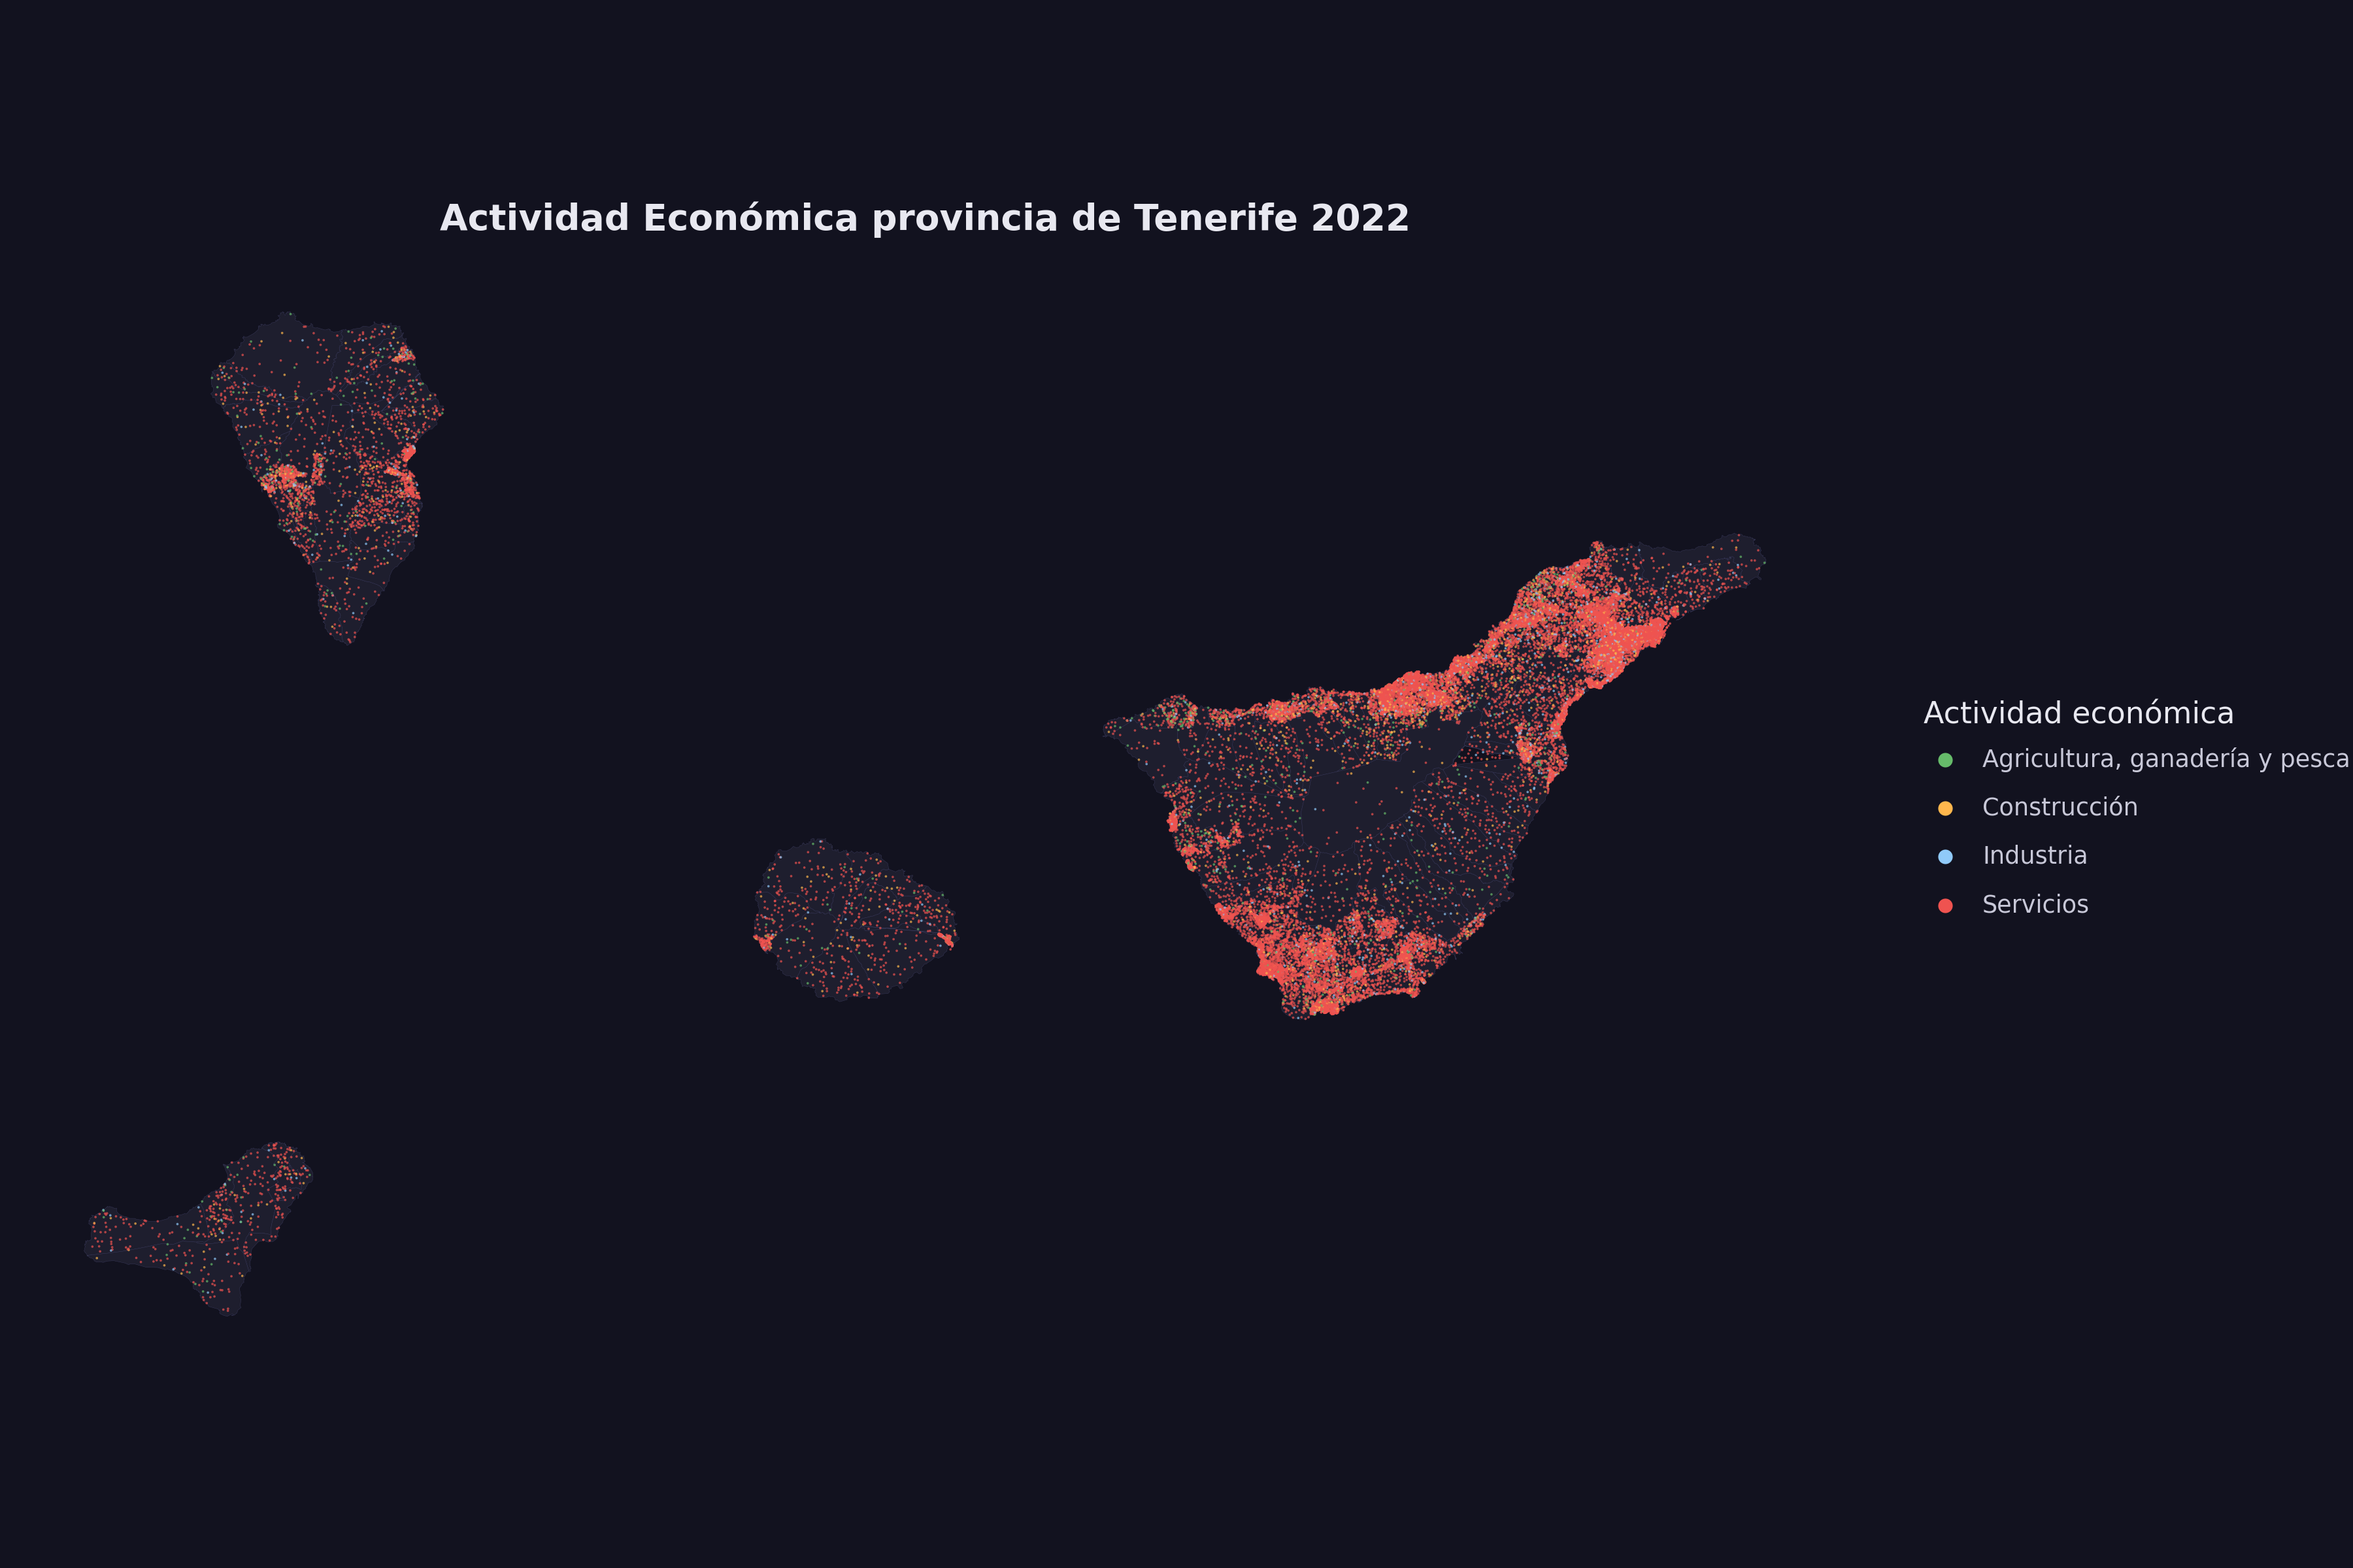
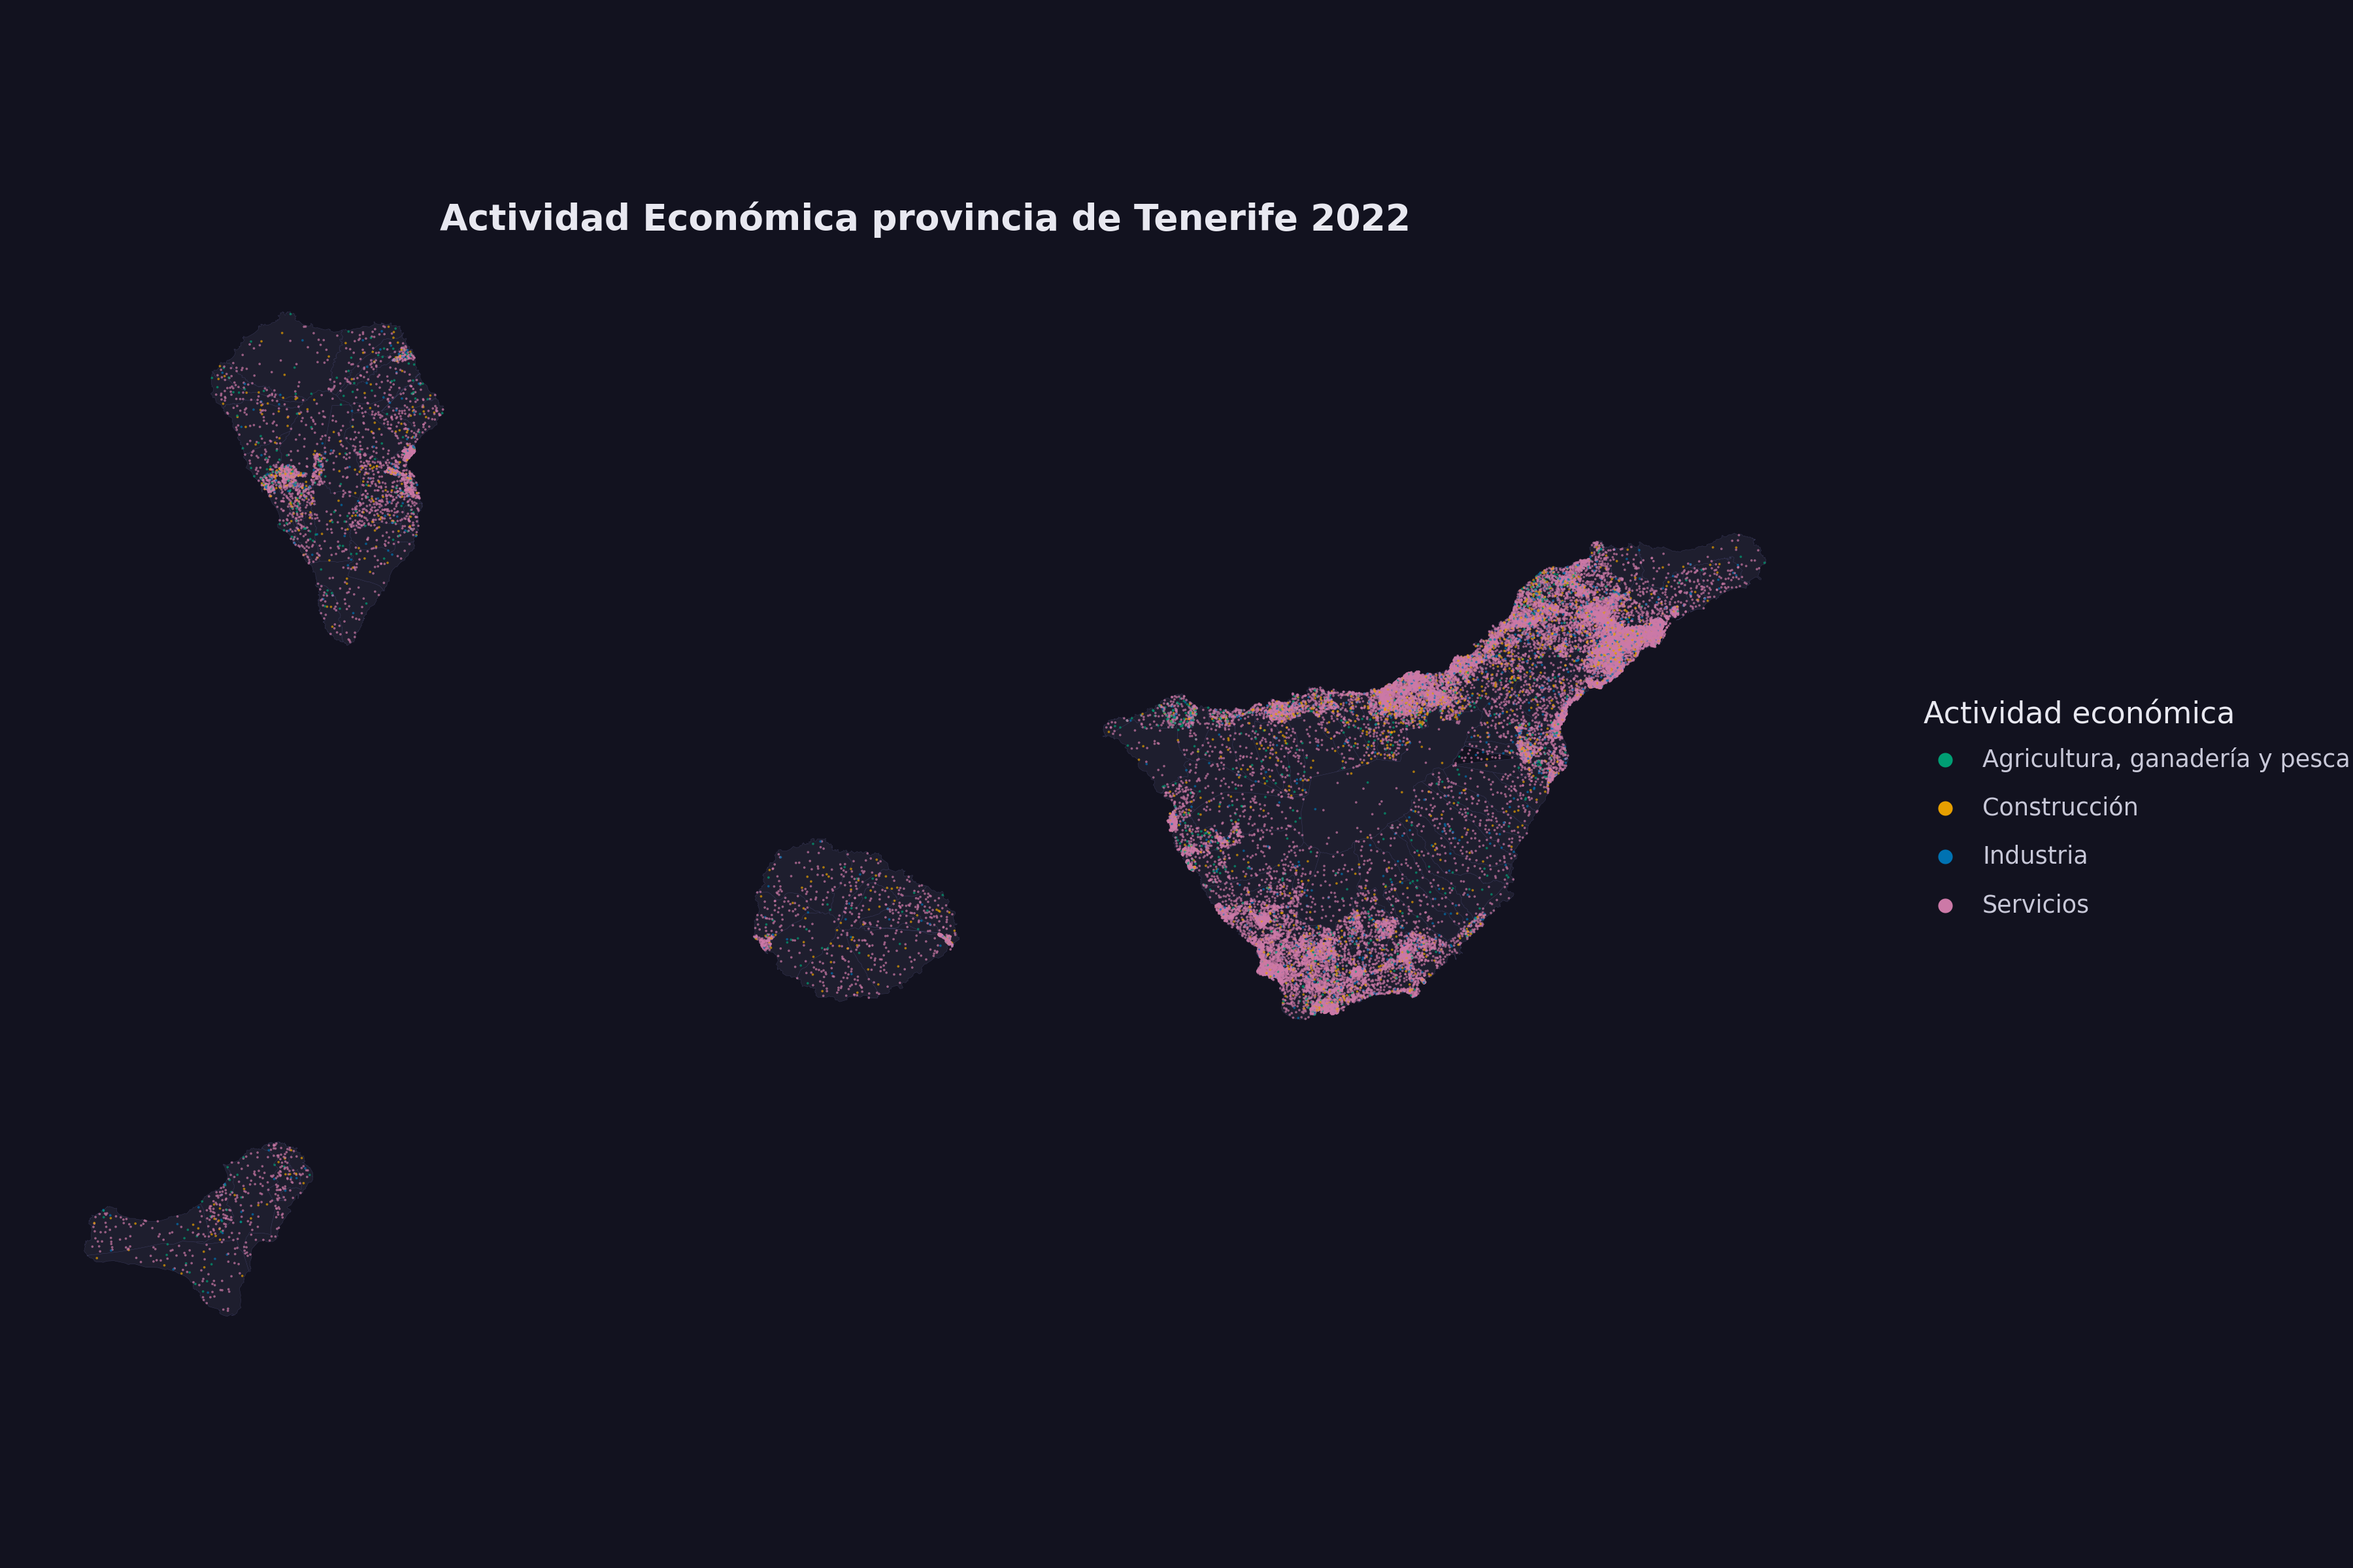
fix: colors adapted to visualization principals

diff --git a/main.py b/main.py
@@ -48,26 +48,26 @@ GEO_MAP_ACT_OCP = {
 }
 
 COLORS_ACT = {
-    "Agricultura, ganadería y pesca": "#66bb6a",
-    "Construcción": "#ffb74d",
-    "Industria": "#90caf9",
-    "No consta": "#78909c",
-    "Servicios": "#ef5350",
+    "Agricultura, ganadería y pesca": "#009E73",  
+    "Construcción": "#E69F00",                    
+    "Industria": "#0072B2",                       
+    "No consta": "#DADDE0",                        
+    "Servicios": "#CC79A7",                        
 }
 
 COLORS_OCP = {
-    "Directores/gerentes y profesionales/técnicos de nivel medio o alto": "#42a5f5",
-    "No consta": "#78909c",
-    "Ocupaciones elementales": "#ef5350",
-    "Trabajadores cualificados y oficiales/operarios de nivel bajo": "#ffca28",
+    "Directores/gerentes y profesionales/técnicos de nivel medio o alto": "#E69F00",  
+    "No consta": "#DADDE0",                                                    
+    "Ocupaciones elementales": "#009E73",                                       
+    "Trabajadores cualificados y oficiales/operarios de nivel bajo": "#CC79A7", 
 }
 
 COLORS_RENTA = {
-    "Otras prestaciones": "#ce93d8",
-    "Otros ingresos": "#80cbc4",
-    "Pensiones": "#ffb74d",
-    "Prestaciones por desempleo": "#ef5350",
-    "Sueldos y salarios": "#42a5f5",
+    "Otras prestaciones": "#DADDE0",       
+    "Otros ingresos": "#009E73",            
+    "Pensiones": "#E69F00",                  
+    "Prestaciones por desempleo": "#0072B2",
+    "Sueldos y salarios": "#CC79A7",        
 }
 
 REN_COLS = [
